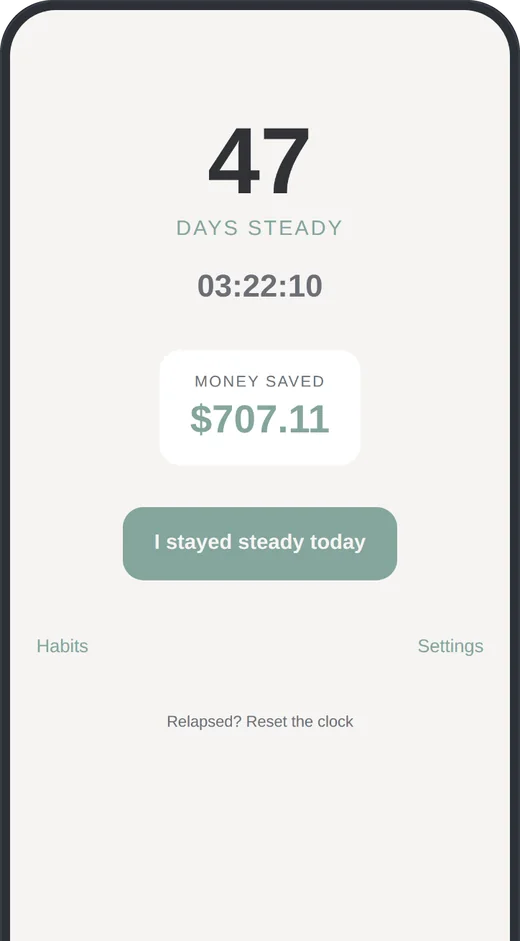
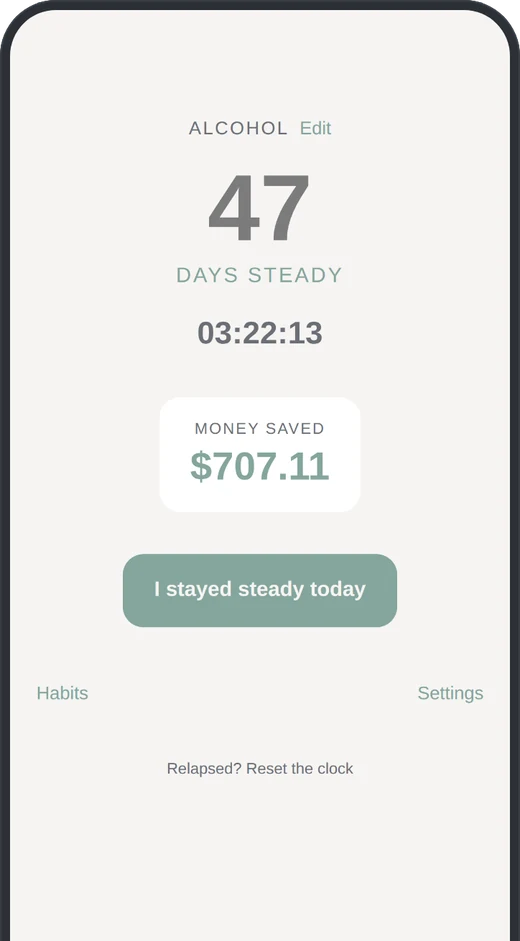
Refresh app screenshots and social card for the new screens
The home screen now names the habit, onboarding asks when you started,
History shows streaks and a calendar, and Habits has one-tap check-ins.
Re-rendered the hero, feature strip, privacy image and og-image from the
current app, with alt text to match.

Claude-Session: https://claude.ai/code/session_01MTgYZ5WjsNwJxvnwtJL6QF

diff --git a/index.html b/index.html
@@ -68,7 +68,7 @@
         </div>
         <div class="hero-art">
           <img class="phone-shot" src="/assets/img/screens/dashboard-phone.webp" width="520" height="941"
-            alt="The Steady home screen: 47 days steady, a live clock at 03:22:10, $707.11 saved, and an &quot;I stayed steady today&quot; check-in button." />
+            alt="The Steady home screen for Alcohol: 47 days steady, a live clock at 03:22:13, $707.11 saved, and an &quot;I stayed steady today&quot; check-in button." />
         </div>
       </div>
     </section>
@@ -127,15 +127,15 @@
         <ul class="screens" aria-label="Screens from the Steady app">
           <li>
             <img src="/assets/img/screens/onboarding.webp" width="480" height="853" loading="lazy"
-              alt="No sign-up. Just start. Onboarding asks only what you're staying steady from and an optional daily cost." />
+              alt="No sign-up. Just start. Onboarding asks what you're staying steady from, an optional daily cost, and the day you started." />
           </li>
           <li>
             <img src="/assets/img/screens/history.webp" width="480" height="853" loading="lazy"
-              alt="See how far you've come. The history screen shows 74 clean days, 1 reset, and a 12-week grid of check-ins." />
+              alt="See how far you've come. The history screen shows a current streak of 1 month, 16 days, a 112-day longest streak, 1 reset, and a calendar of steady days and check-ins." />
           </li>
           <li>
             <img src="/assets/img/screens/habits.webp" width="480" height="853" loading="lazy"
-              alt="Track more than one habit. The habits list shows Alcohol and Nicotine, with an option to add another." />
+              alt="Track more than one habit. The habits list shows Alcohol, on the home screen, and Nicotine, checked in today, each with a one-tap check-in." />
           </li>
           <li>
             <img src="/assets/img/screens/themes.webp" width="480" height="853" loading="lazy"
